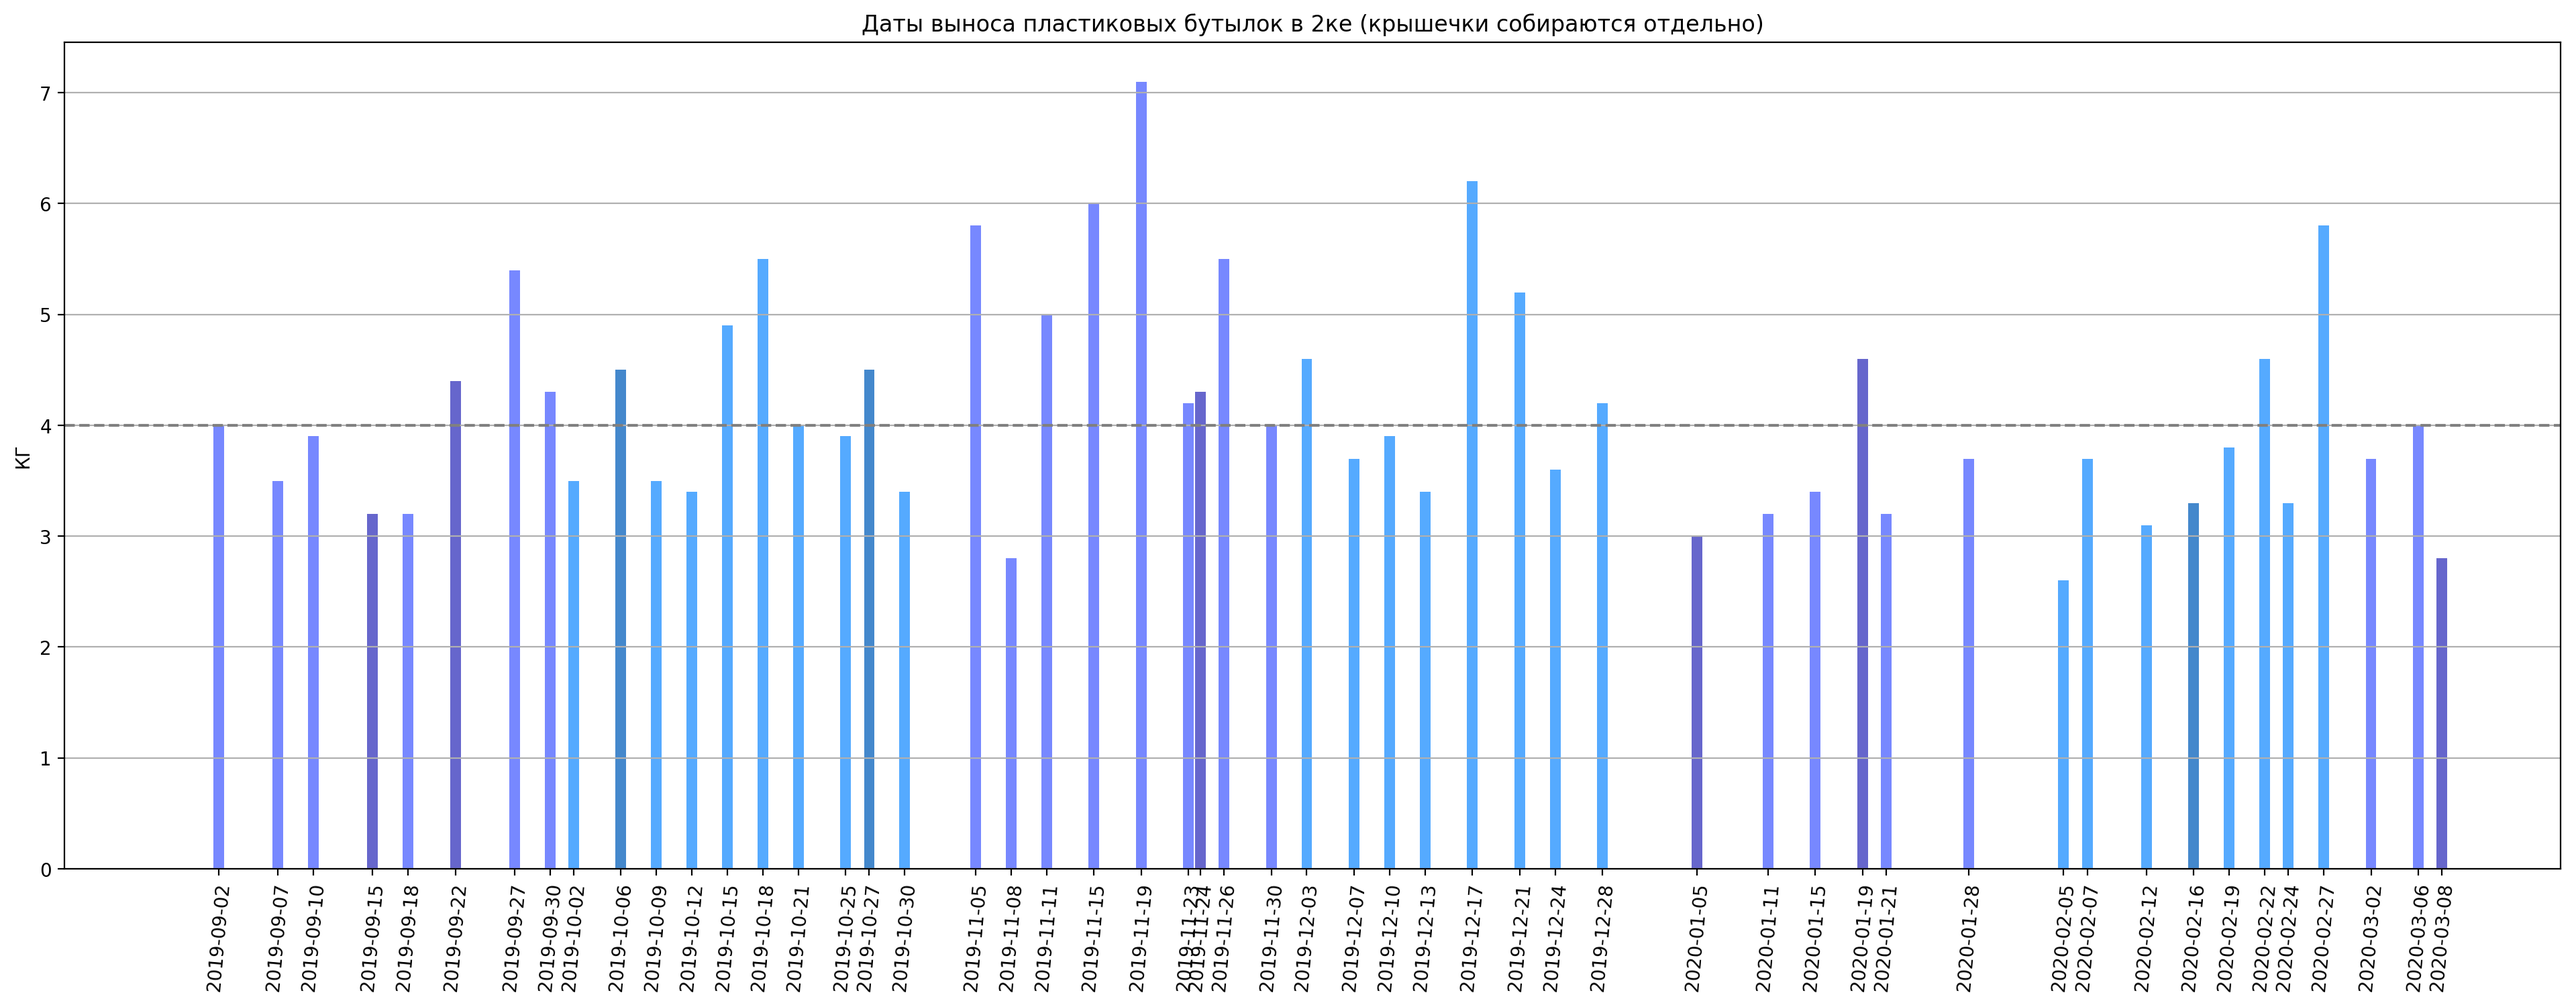
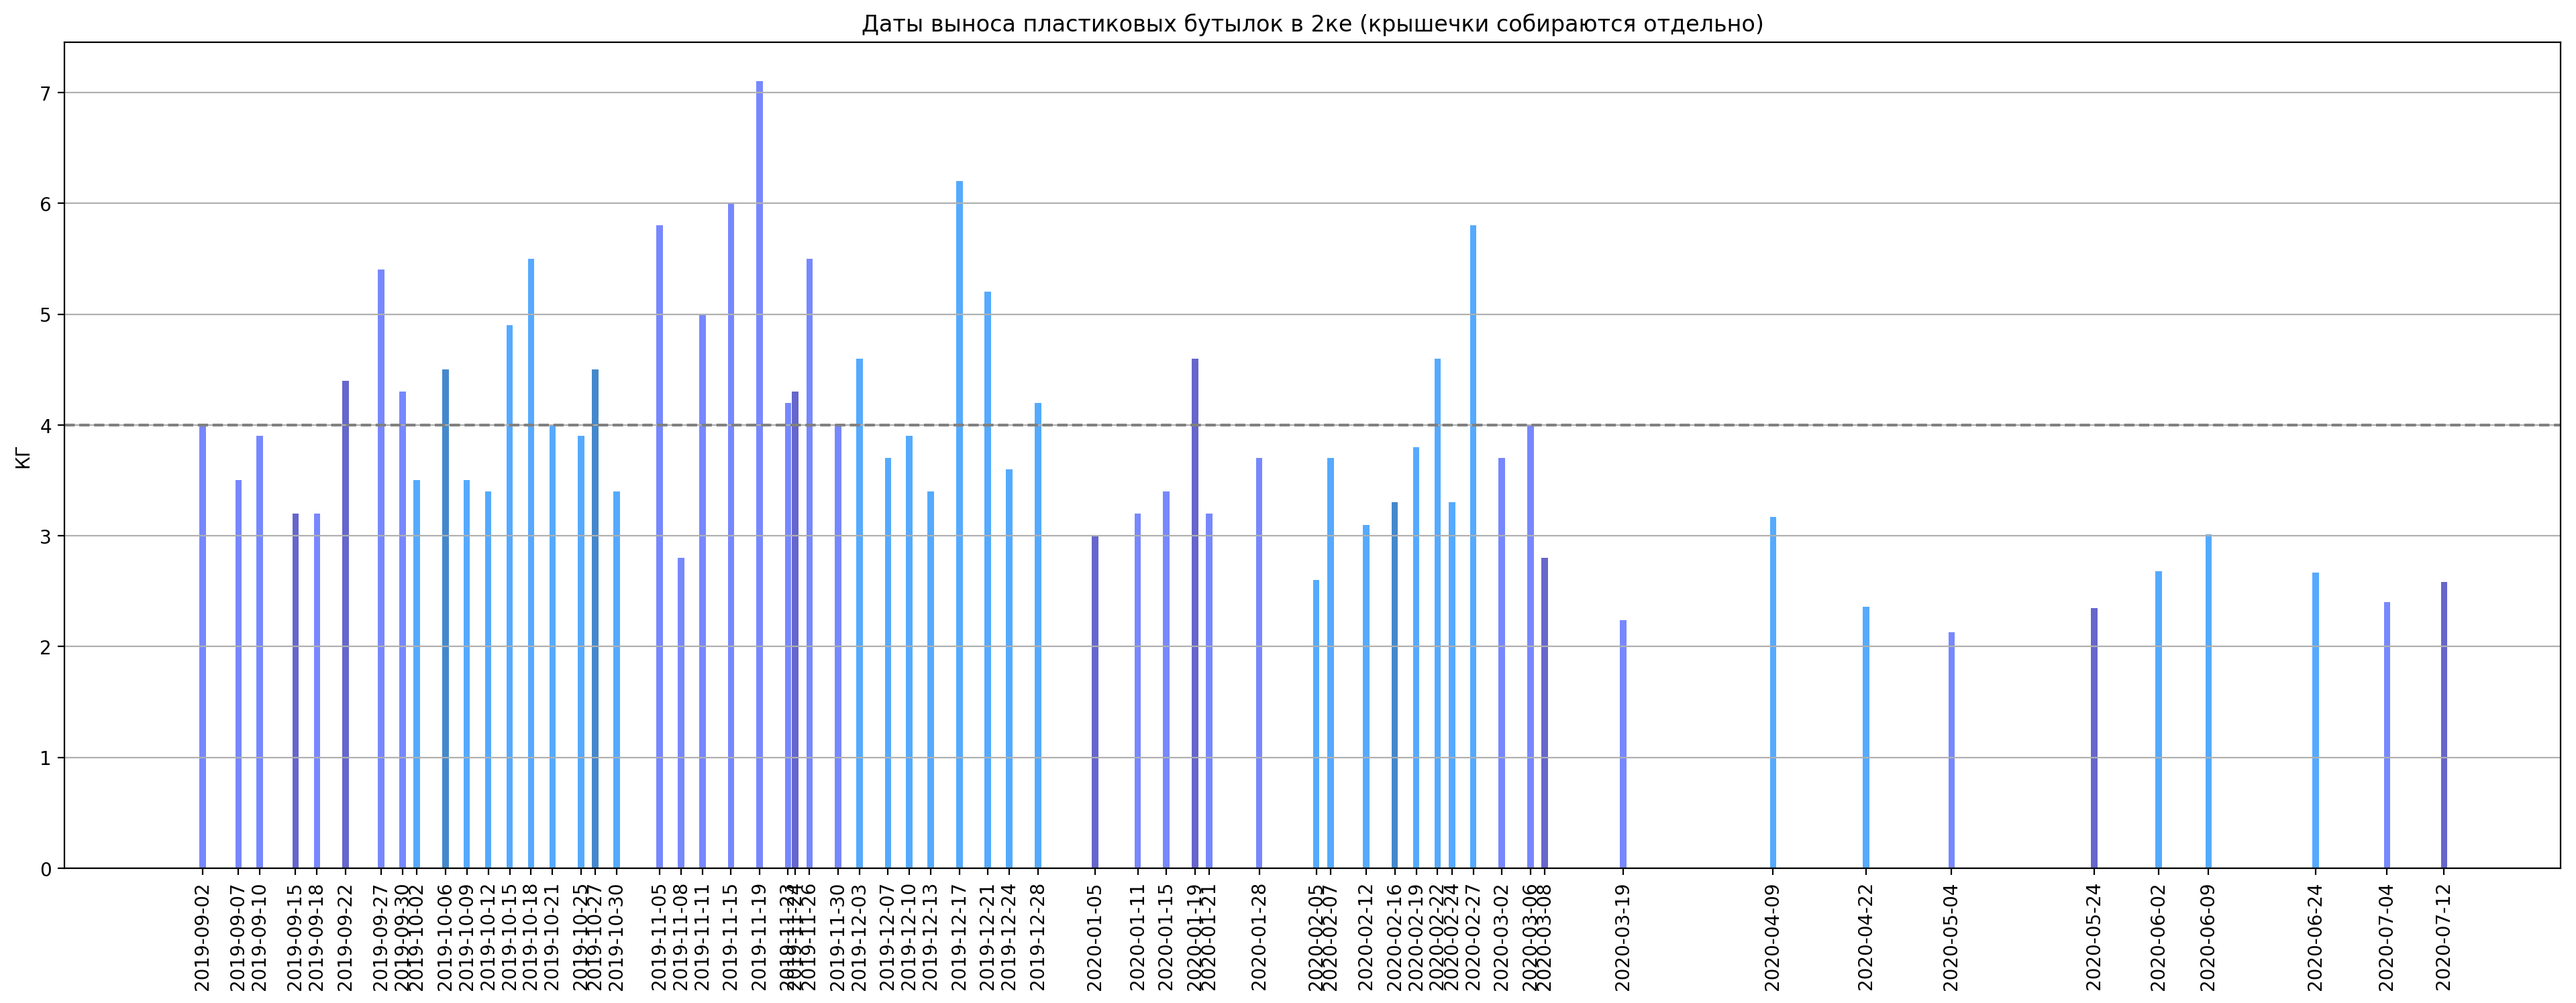
Update stats, save pre-lockdown report into a subdirectory

Changed region(s): [[0.031, 0.0922, 0.9919, 0.984], [0.558, 0.1845, 0.589, 0.2152], [0.124, 0.3075, 0.155, 0.3382]]

diff --git a/stats/prelockdown/index.html b/stats/prelockdown/index.html
@@ -21,27 +21,24 @@ img, iframe {
 }
 iframe {
     border: none;
-    width: 550px;
-    max-width: 100%;
+    width: 500px;
     height: 80px;
 }
 a {
     text-decoration-skip-ink: none;
 }
-p.comment {
-    max-width: 550px;
-    margin: 0 auto;
-}
 </style>
 </head>
 <body>
 <h1>Статистика сбора пластиковых бутылок в общежитии №2</h1>
+<h2>(до начала самоизоляции)</h2>
 <p>
-<a href="./2ka_plastic_data.txt" target="_blank">Сырые данные</a>
+<a href=".." target="_blank">Актуальная версия</a>
+&bullet;
+<a href="../2ka_plastic_data.txt" target="_blank">Сырые данные</a>
 &bullet;
 <a href="https://github.com/diht2016/green-tech-mipt/tree/master/stats/main.py" target="_blank">Скрипт для обработки и построения графиков</a>
 </p>
-<p class="comment">Примечание: после 8 марта 2020 большинство студентов разъехались из общежитий по домам в связи с самоизоляцией из-за COVID-19. Статистику без учёта самоизоляции можно посмотреть <a href="./prelockdown/">здесь</a>.</p>
 <iframe src="./report.txt"></iframe>
 <img src="./bottle-collection-stat-2ka.png">
 <img src="./bottle-collection-days-2ka.png">

diff --git a/stats/main.py b/stats/main.py
@@ -82,7 +82,7 @@ plt.figure(figsize=figsize)
 plt.title('Статистика сбора пластиковых бутылок в 2ке (крышечки собираются отдельно)')
 plt.axhline(1, color='gray', linestyle='--')
 plt.bar(full_d_str, full_k, width=0.9, color=colors)
-plt.xticks(full_d_str[::3], rotation=75)
+plt.xticks(full_d_str[::3], rotation=85)
 plt.ylabel('КГ в день')
 plt.grid(axis='y', which='both')
 plt.savefig('bottle-collection-stat-2ka.png', dpi=dpi, bbox_inches='tight')
@@ -92,7 +92,7 @@ plt.figure(figsize=figsize)
 plt.title('Даты выноса пластиковых бутылок в 2ке (крышечки собираются отдельно)')
 plt.axhline(4, color='gray', linestyle='--')
 plt.bar(full_d_str, full_a, width=0.9, color=colors)
-plt.xticks(sparse_dates_str, rotation=85)
+plt.xticks(sparse_dates_str, rotation=90)
 plt.ylabel('КГ')
 plt.grid(axis='y')
 plt.savefig('bottle-collection-days-2ka.png', dpi=dpi, bbox_inches='tight')
@@ -112,7 +112,7 @@ plt.axhline(0, color='k', linestyle='-')
 plt.axhline(1, color='gray', linestyle='--')
 plt.plot(full_d_str, full_k, label='Точное')
 plt.plot(full_d_str, full_k_smooth, linestyle='--', label='Экспоненциальное среднее (gamma=0.9)')
-plt.xticks(full_d_str[::7], rotation=70)
+plt.xticks(full_d_str[::7], rotation=80)
 plt.ylabel('КГ в день')
 plt.grid(axis='y')
 plt.legend()
